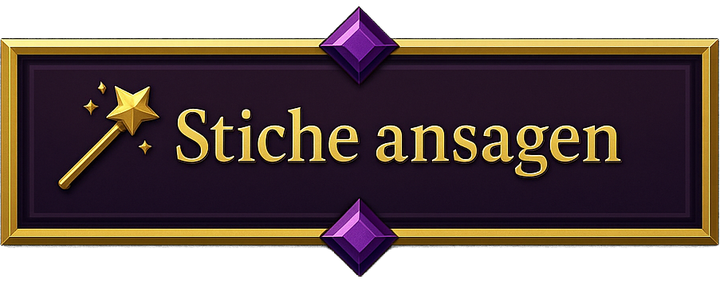
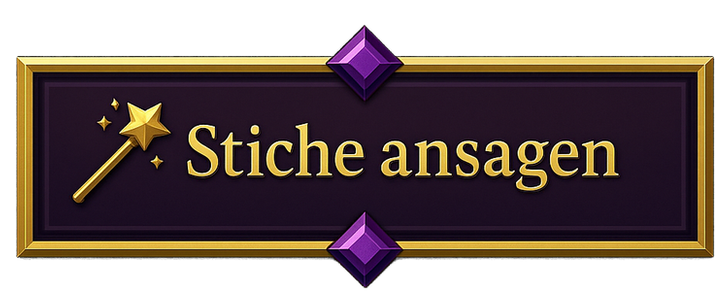
Spieltisch-Buttons: einheitliche Groesse + border-radius-Fix
Ursache der "abgerundeten Ecken": .btn-Basisklasse bringt border-radius:30px
mit und beschnitt das Grafik-Artwork -> fuer .bid-open-btn/.hand-view-btn/
.nav-btn auf 0 gesetzt (echte Ecken). Alle vier Buttons per Skript auf
identische Rahmen-Geometrie normalisiert (720x304, Rahmen 688x191); CSS
aspect-ratio einheitlich 720/304, Versionen v=8. "Spiel verlassen" und
"Spiel pausieren" jetzt exakt gleich gross. Im Solospiel verifiziert.

diff --git a/index.html b/index.html
@@ -1042,12 +1042,12 @@
   .action-dock { display: flex; justify-content: center; margin-top: 6px; min-height: 104px; align-items: center; }
   /* "Stiche ansagen": fertige Grafik (Text ist Teil des Bildes). */
   .bid-open-btn {
-    background: url('lobby/ui-bid.png?v=7') center/100% 100% no-repeat;
+    background: url('lobby/ui-bid.png?v=8') center/100% 100% no-repeat;
     /* WICHTIG: .btn bringt border-radius:30px mit und schneidet das Artwork
        an den Ecken rund ab -> fuer Grafik-Buttons auf 0 (echte Ecken). */
     border-radius: 0;
     border: none; box-shadow: none; color: transparent; font-size: 0; padding: 0;
-    width: clamp(120px, 29vw, 224px); aspect-ratio: 720 / 283;
+    width: clamp(120px, 29vw, 224px); aspect-ratio: 720 / 304;
     display: inline-block; cursor: pointer;
     animation: bidPulse 1.9s ease-in-out infinite;
   }
@@ -1269,9 +1269,9 @@
   /* "Alle Karten": gemalte Pille als Hintergrund */
   .hand-view-btn {
     position: static; z-index: 6; border-radius: 0;
-    border: none; box-shadow: none; background: url('lobby/ui-allcards.png?v=7') center/100% 100% no-repeat;
+    border: none; box-shadow: none; background: url('lobby/ui-allcards.png?v=8') center/100% 100% no-repeat;
     color: transparent; font-size: 0; padding: 0; cursor: pointer;
-    width: clamp(120px, 29vw, 224px); aspect-ratio: 720 / 283; display: inline-block;
+    width: clamp(120px, 29vw, 224px); aspect-ratio: 720 / 304; display: inline-block;
   }
   .hand-view-btn:hover { filter: brightness(1.1); }
   /* Steuer-Pillen mit gemalten Rahmen (border-radius:0 gegen .btn-Rundung) */
@@ -1309,10 +1309,10 @@
   .nav-btn {
     border: none; padding: 0; cursor: pointer; color: transparent; font-size: 0;
     background: center/100% 100% no-repeat; border-radius: 0;
-    width: clamp(150px, 45vw, 300px); aspect-ratio: 720 / 283;
+    width: clamp(150px, 45vw, 300px); aspect-ratio: 720 / 304;
   }
-  .nav-btn.nav-leave { background-image: url('lobby/nav-leave.png?v=6'); }
-  .nav-btn.nav-pause { background-image: url('lobby/nav-pause.png?v=6'); }
+  .nav-btn.nav-leave { background-image: url('lobby/nav-leave.png?v=8'); }
+  .nav-btn.nav-pause { background-image: url('lobby/nav-pause.png?v=8'); }
   .nav-btn:hover { filter: brightness(1.08); }
 
   /* Endstand-Rangliste (Spielende) */
